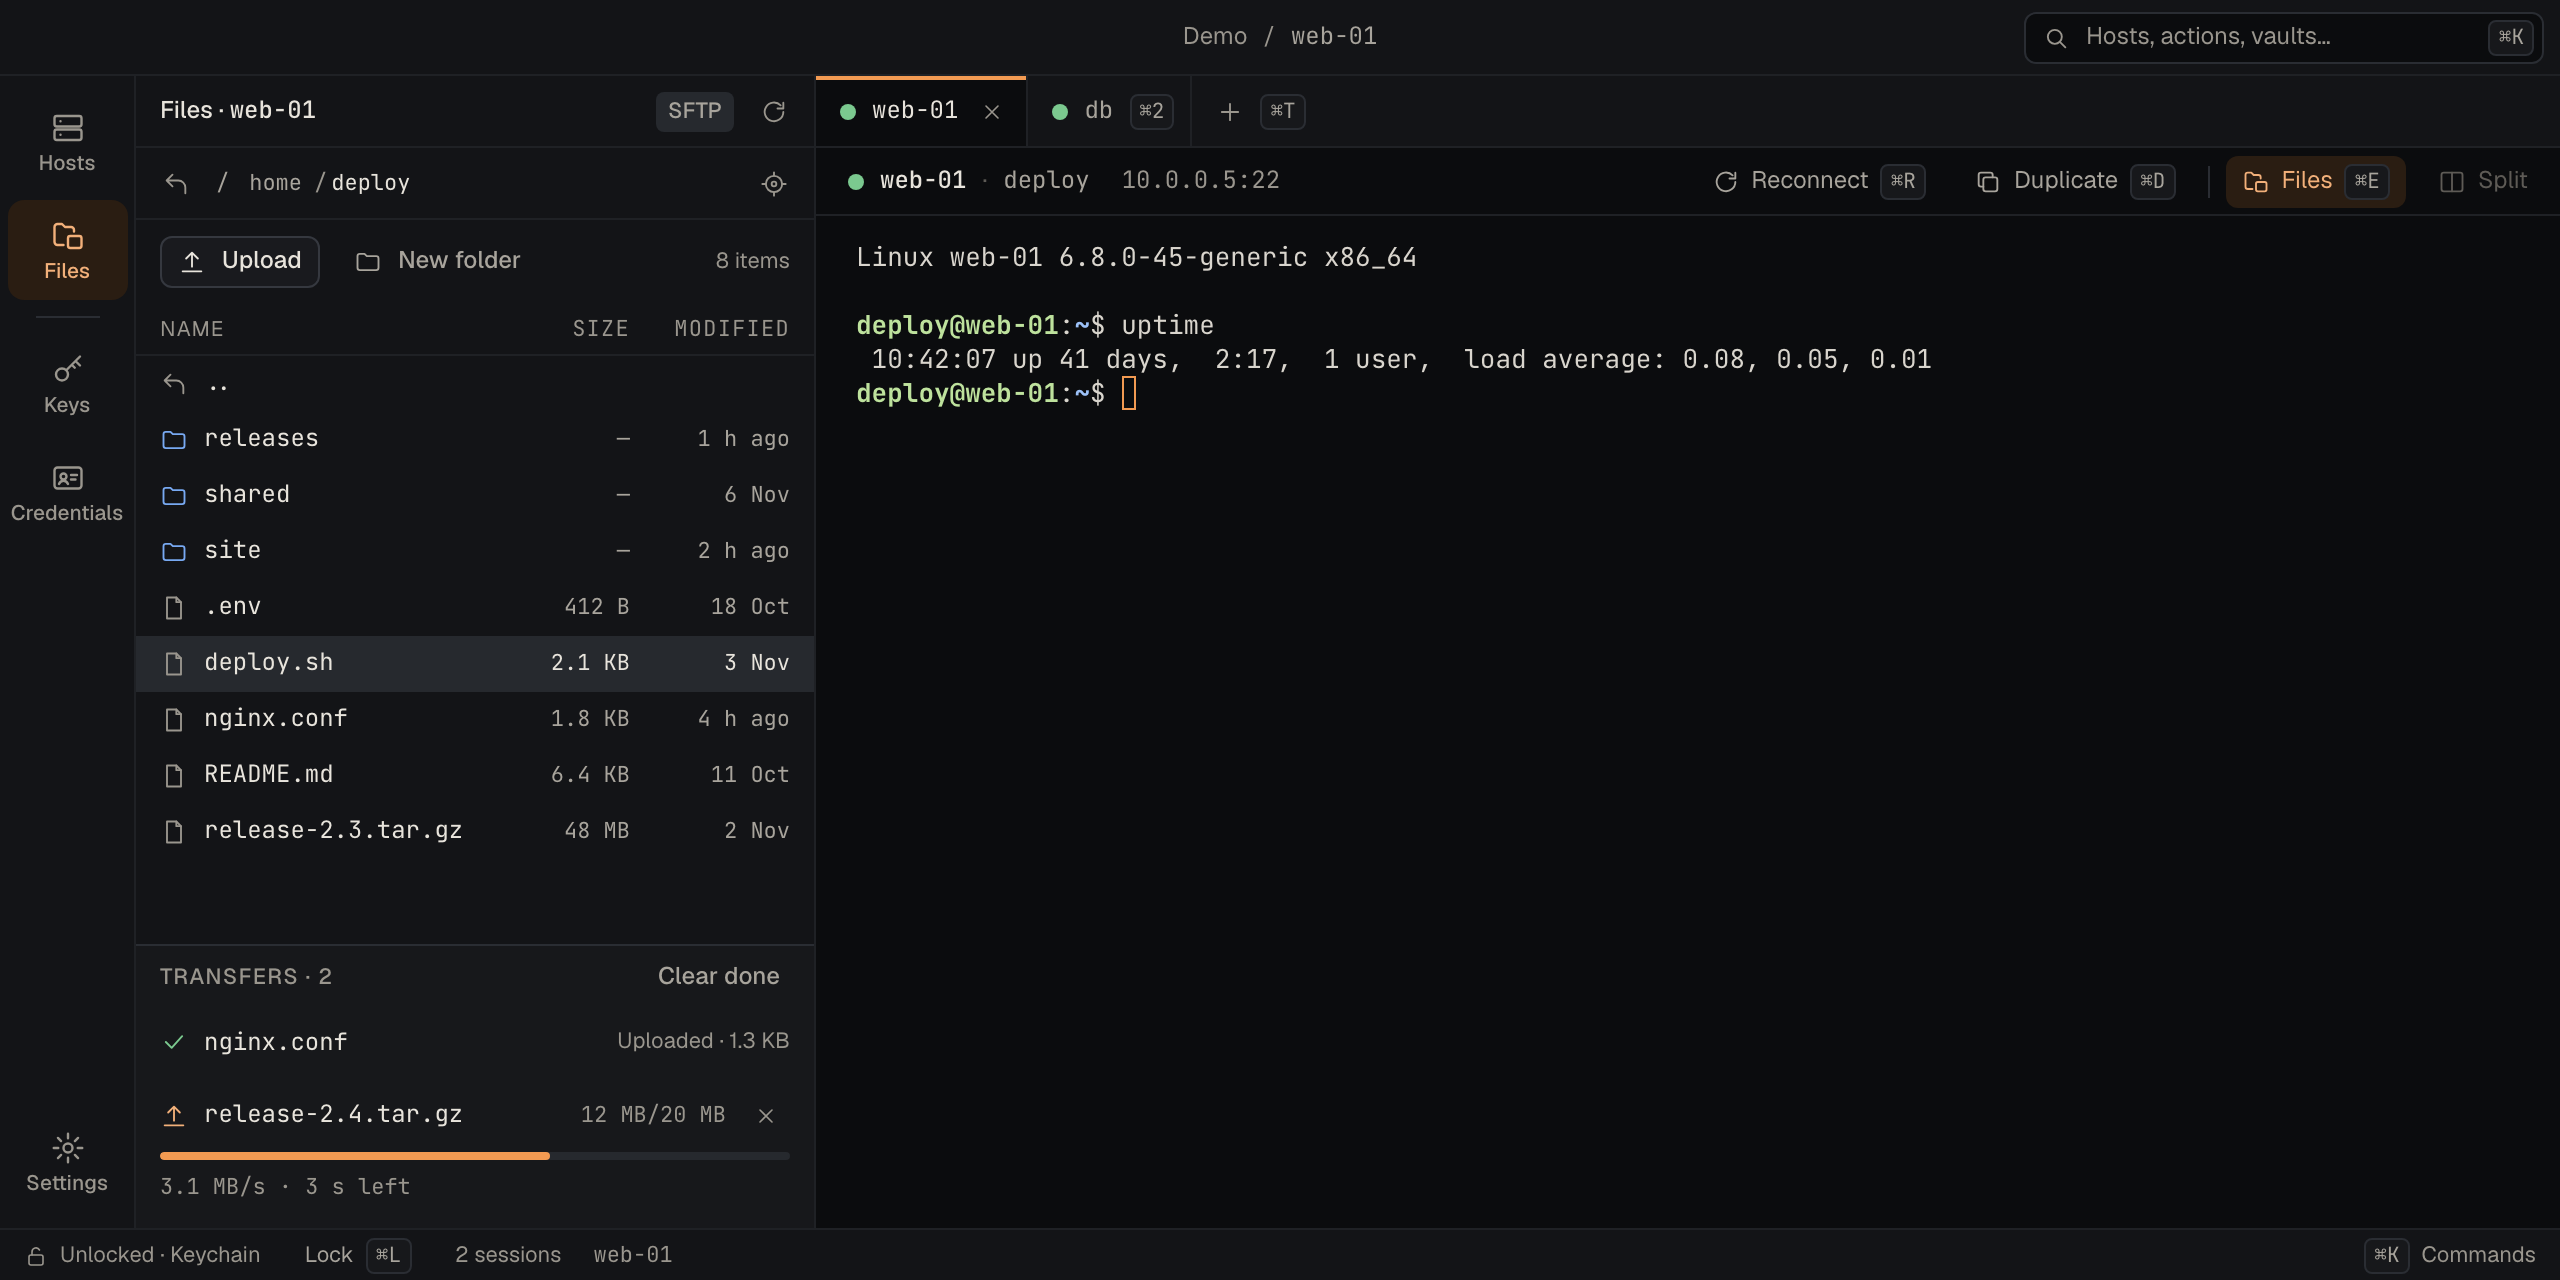
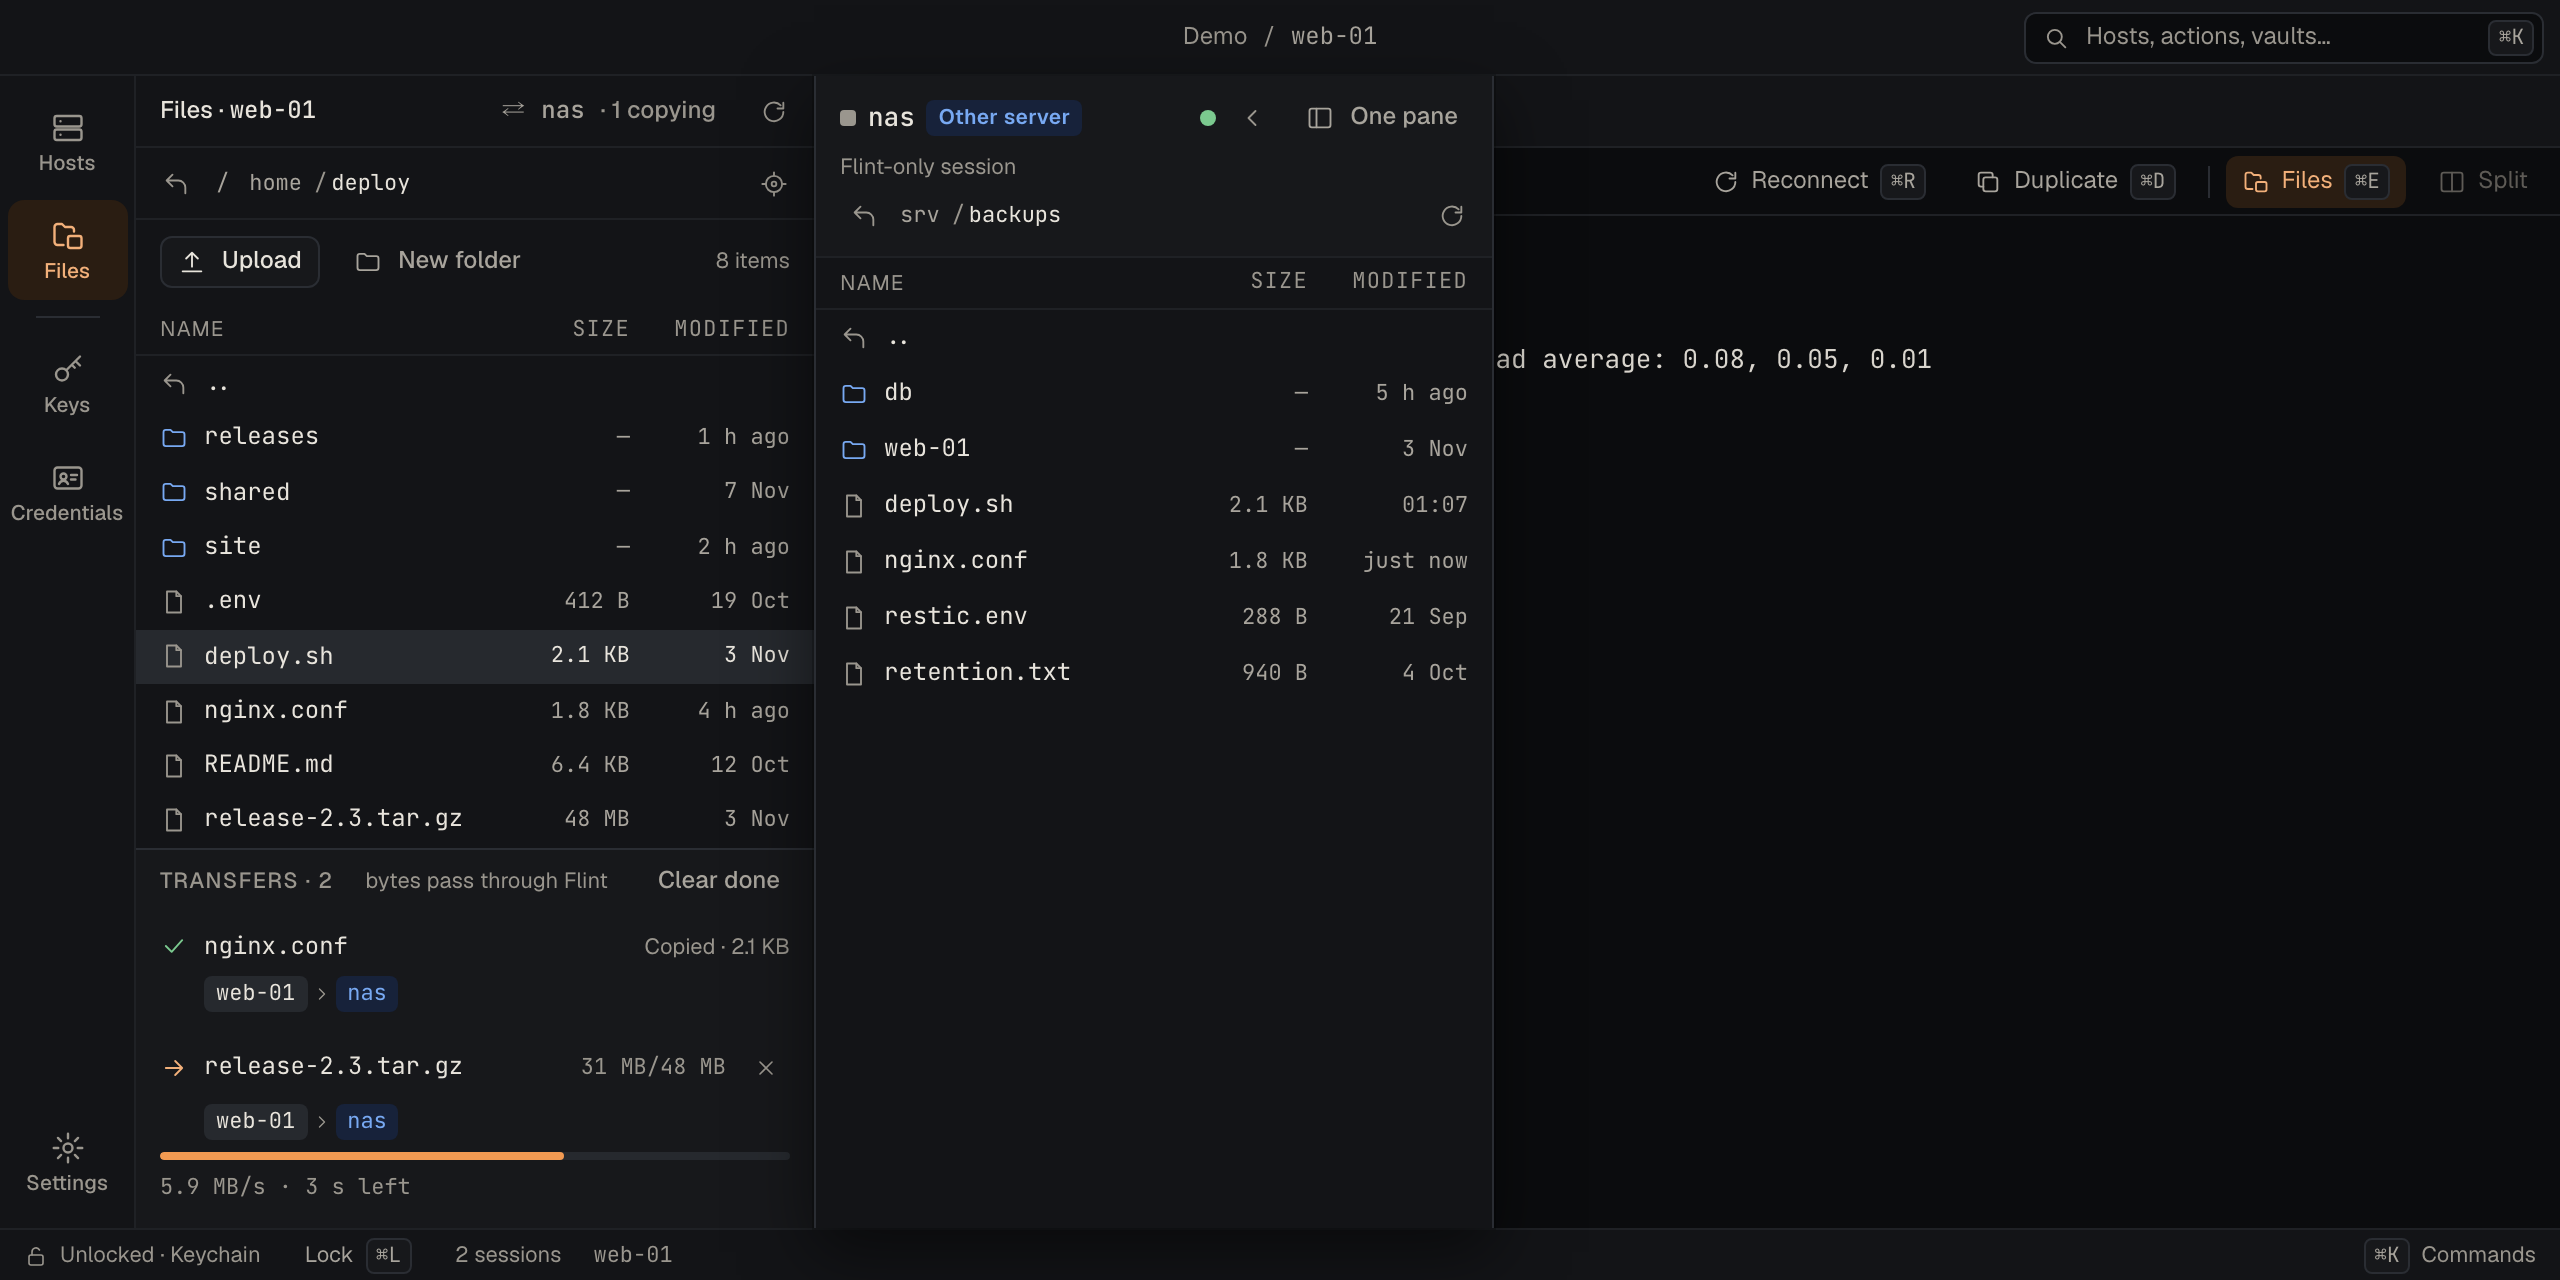
docs: copy between two servers in the Files view, landing shot with two panes
The Files view guide gains Copying between two servers and opening on the
terminal's folder; shortcuts list Cmd+Right / Cmd+Left; the landing's Files
section names it and its screenshot shows the second pane (shots:gui).
Design README: 14d as built. The pane's role hint gets its own line and a
relay row's route its own line under the name.

Claude-Session: https://claude.ai/code/session_01TFc4EtDChcTxEmpK7KwzDa

diff --git a/ui/src/files/FilesView.tsx b/ui/src/files/FilesView.tsx
@@ -328,7 +328,7 @@ function TransferRow({ t, others }: { t: Transfer; others: number }) {
   const size = t.total > 0 ? `${humanSize(t.bytes)}/${humanSize(t.total)}` : humanSize(t.bytes);
   const [all, setAll] = useState(false);
   let icon = <Icon name={t.direction === 'upload' ? 'upload' : t.direction === 'download' ? 'download' : 'arrow-r'} size="sm" className="accent-t" />;
-  let status: ReactNode = <span className="mono faint" style={{ fontSize: 'var(--fs-xs)' }}>{size}{t.direction === 'relay' && t.rate > 0 ? ` · ${humanSize(Math.round(t.rate))}/s` : ''}</span>;
+  let status: ReactNode = <span className="mono faint" style={{ fontSize: 'var(--fs-xs)', whiteSpace: 'nowrap' }}>{size}</span>;
   let action: ReactNode = <button className="icon-btn" aria-label={`Cancel ${verb}`} title={`Cancel ${verb}`} data-transfer-cancel onClick={() => files.cancel(t.id)}><Icon name="x" size="xs" /></button>;
   if (t.state === 'queued') {
     icon = <Icon name="clock" size="sm" className="faint" />;
@@ -378,13 +378,11 @@ function TransferRow({ t, others }: { t: Transfer; others: number }) {
   return (
     <div className="xfer" data-transfer={t.name} data-state={t.state} data-direction={t.direction}>
       <div className="row" style={{ fontSize: 'var(--fs-sm)', gap: 'var(--sp-2)' }}>
-        {icon}
-        <span className={'mono trunc' + (t.direction === 'relay' ? '' : ' grow')} title={where}>{t.name}</span>
-        {t.direction === 'relay' && (
-          <span className="chain grow" style={{ marginLeft: 'var(--sp-1)', minWidth: 0 }} data-transfer-route><span className="node trunc">{t.alias}</span><Icon name="chain" size="xs" /><span className="node caller trunc">{t.toAlias}</span></span>
-        )}
-        {status}{action}
+        {icon}<span className="mono grow trunc" title={where}>{t.name}</span>{status}{action}
       </div>
+      {t.direction === 'relay' && (
+        <span className="chain" style={{ paddingLeft: 22 }} data-transfer-route title={where}><span className="node">{t.alias}</span><Icon name="chain" size="xs" /><span className="node caller">{t.toAlias}</span></span>
+      )}
       {active && <div className="progress" role="progressbar" aria-valuenow={pct} aria-valuemin={0} aria-valuemax={100}><i style={{ width: t.total > 0 ? pct + '%' : '30%' }} className={t.total > 0 ? '' : 'indeterminate'} /></div>}
       {active && <span className="hint mono">{t.recursive && t.file ? `${t.filesDone} done · ` : ''}{rateLine(t)}</span>}
     </div>

diff --git a/ui/src/files/OtherPane.tsx b/ui/src/files/OtherPane.tsx
@@ -190,7 +190,8 @@ export function OtherPane({ tabId, session, alias, pair, onConfirm, onAsk, onEdi
   };
 
   const hide = () => pairs.setHidden(tabId, true);
-  const roleHint = pair.own ? 'no tab · Flint-only session' : 'its tab’s session';
+  const roleHint = pair.own ? 'Flint-only session' : 'its tab’s session';
+  const roleTitle = pair.own ? `${pair.alias} has no open tab: Flint logged in without a terminal, for this pane only` : `The pane uses ${pair.alias}'s open tab`;
   const st = pair.status === 'ready' ? 'st-on' : pair.status === 'ended' ? 'st-fail' : 'st-wait';
 
   return (
@@ -207,11 +208,12 @@ export function OtherPane({ tabId, session, alias, pair, onConfirm, onAsk, onEdi
           <span className={'sp-dot ' + color.className} style={color.style} />
           <span className="mono strong trunc" data-files-pane-host>{pair.alias}</span>
           <span className="role-tag other">Other server</span>
-          <span className="hint trunc grow" style={{ minWidth: 0 }}>{roleHint}</span>
+          <span className="grow" />
           <span className={'st ' + st} role="img" aria-label={pair.status} />
           <button className="icon-btn" aria-label="Hide this pane (Esc). Copies carry on" title="Hide this pane (Esc). Copies carry on" data-files-pane-hide onClick={hide}><Icon name="chev-r" size="sm" className="flip-x" /></button>
           <button className="btn btn-ghost btn-sm" data-files-one-pane title="Back to one pane: ends this pane's session" onClick={() => pairs.close(tabId)}><Icon name="sidebar" size="sm" />One pane</button>
         </div>
+        <span className="hint trunc" title={roleTitle} data-files-pane-role>{roleHint}</span>
         <div className="row" style={{ gap: 2 }}>
           <button className="icon-btn" aria-label="Up one folder" disabled={!ready || !path || path === '/'} onClick={() => files.up(key)}><Icon name="up" size="sm" /></button>
           <nav className="crumbs grow" aria-label="Path" data-files-pane-crumbs>

diff --git a/scripts/gui-e2e.js b/scripts/gui-e2e.js
@@ -519,7 +519,7 @@
       await check(pane().textContent.includes('Verify side'), "a new host's key is asked inside the pane (14d5c)");
       await click('[data-files-pane-hostkey] button[type="submit"]');
       await waitFor(() => pane()?.dataset.pairStatus === 'ready' && pane().dataset.filesPath, 'the Flint-only session', 20000);
-      await check(pane().textContent.includes('no tab · Flint-only session') && qa('.tab').length === 2, 'a host with no tab gets a session of its own with no terminal, and no tab');
+      await check(pane().textContent.includes('Flint-only session') && qa('.tab').length === 2, 'a host with no tab gets a session of its own with no terminal, and no tab');
       await waitFor(() => pane().querySelector(`[data-file="${name}"]`), 'the scratch folder over the Flint-only session');
       await into(name, base);
       // ⌘← copies from the second pane back to the first: src already has a.txt, so Skip.

diff --git a/site/src/content/docs/guides/files-view.md b/site/src/content/docs/guides/files-view.md
@@ -1,6 +1,6 @@
 ---
 title: The Files view
-description: Browse a host's files beside its terminal, upload and download with a queue, drag files in from your computer, and jump to the terminal's folder.
+description: Browse a host's files beside its terminal, upload and download with a queue, drag files in from your computer, copy files between two servers, and jump to the terminal's folder.
 ---
 
 The **Files** view browses the host of the active tab, over that tab's own connection.
@@ -25,8 +25,11 @@ When the active tab is not connected, the view says so and offers **Reconnect** 
   it does not, the button is greyed out and says so. When the list shows the terminal's
   folder, the bar reads **Synced with terminal**.
 
-The view starts in the login folder. Flint opens it again where you left it after a
-reconnect; a folder that is gone takes you back to the login folder.
+When the shell has reported its folder (see [below](#go-to-the-terminals-folder)), the
+view **opens on the terminal's folder**: each time you open it, not as you `cd` while it
+is open, so the list never moves under you. Otherwise it opens where you left it, or in
+the login folder the first time. A folder that is gone takes you back to the login
+folder.
 
 ## Files and folders
 
@@ -78,6 +81,41 @@ and browsing, wait until you open it again. Transfers are not written to **Setti
 with the vault, not what you do in the window.
 
 The same copies from a terminal, or from a script, are [`flint cp`](/guides/files/).
+
+## Copying between two servers
+
+**Copy to another server…** in the view's header copies files from this host straight to
+another one. Pick the other server in the list (type to filter; the current host is
+greyed out as *this tab*), and a second file pane opens beside the view, on that server.
+
+- The bytes go **host → Flint → host**: Flint reads from one server and writes to the
+  other as it reads, with nothing saved on this computer, and no key or password is ever
+  put on either server.
+- The second pane uses the server's open tab when it has a connected one (*its tab's
+  session*). Otherwise Flint logs in to it **without a terminal**, just for the pane
+  (*Flint-only session*): a password or a new host key is asked inside the pane,
+  as a connect would, and that session ends when the pane closes. A host key that has
+  changed is never accepted there; open a tab on the host to review it.
+- **Drag** a file or folder from one pane onto the other. The pane, and the folder under
+  the pointer, light up, and a label says where the copy goes (*Copy to db-primary ·
+  scripts/*). Dropped on the pane, it goes into the folder the pane shows; on a folder
+  row, into that folder.
+- Or right-click it and choose **Copy to <server>**, or press <kbd>⌘→</kbd>
+  (<kbd>Ctrl+Shift+→</kbd> on Linux) in the first pane; <kbd>⌘←</kbd>
+  (<kbd>Ctrl+Shift+←</kbd>) copies from the second pane back to the first.
+- The copies line up in the first pane's queue, each row reading *host → host*, with
+  progress, cancel and **Retry**. A name that is already there asks **Replace** or
+  **Skip**; with several clashes, **Do this for the other N conflicts** answers them all.
+
+The second pane **floats over the terminal**: the terminal keeps its size, so nothing in
+it redraws. <kbd>esc</kbd>, a click in the terminal or the pane's **‹** button hide it,
+but the copies, the pane's folder and its session carry on: the header's
+**⇄ <server> · N copying** shows it again as it was. **One pane** closes it and ends its
+own session; closing the tab or locking the vault does too.
+
+Like the rest of the window's transfers, these copies are not written to **Settings →
+Activity**. From a terminal or a script, the same copy is
+[`flint cp a:/path b:/path`](/guides/files/).
 
 ## Go to the terminal's folder
 

diff --git a/docs/design/README.md b/docs/design/README.md
@@ -226,6 +226,8 @@ The bytes always flow server A → Flint → server B; no key or password is eve
 
 - **As built (16g, milestone 18, D-058):** the host's colour square is its own colour (none: grey), and its name on the network shows under the alias only when it differs. 16g3's tags come from the caller's live grants when the window opens; a grant that ends while it waits loses its tag. A 16g1 with no grant yet shows no tags.
 
+- **As built (14d, milestone 19, D-059):** the second pane **floats** over the terminal beside the Files view, which keeps its width, instead of widening the docked view to 700 px: the terminal is never resized. Its header carries the hide button (‹) and **One pane**; the role hint (*Flint-only session* / *its tab's session*) sits on its own line under it. While two-pane mode is on, **Copy to another server…** becomes the chip `⇄ <host> · N copying`, which shows a hidden pane again; Esc or a click in the terminal hides it, and the mode, its session and its copies stay. The first pane keeps its 14a layout (no role tag); the queue stays there, a relay row's route `A › B` on a line under the name. ⌘← copies from the second pane back. Left out: 14d5b's **Save to vault** (save a password in the host editor) and 14d5c's **Once** (a host key is trusted or not); a changed host key in the pane says to open a tab on the host.
+
 **Focus in split panes:** the focused pane has an ember border and a tinted header, and the other panes' output is dimmed to 60 %. Either cue alone is weak with busy output or in light mode; together they hold up. Pane numbers 1–4 appear in pane headers, the toolbar badge ("pane 2 of 4") and the Files header.
 
 **Shortcut change:** Split right takes ⌘D, so **Duplicate session moves to ⌥⌘D**.

diff --git a/site/src/content/docs/reference/keyboard-shortcuts.md b/site/src/content/docs/reference/keyboard-shortcuts.md
@@ -37,6 +37,7 @@ speaks the Kitty keyboard protocol.
 |---|---|
 | Host tree | ↑ ↓ move · ← → collapse or expand · ↵ connect · ⌘↵ new tab · ⌘I edit · ⌫ delete |
 | Files list | ↑ ↓ move · ↵ open a folder, rename a file · ⌘↑ up one folder · ⌘↓ download · ⌘⌫ delete · context-menu key for the menu |
+| Files with two servers | ⌘→ copy to the second pane's server · ⌘← (in the second pane) copy back to the first · esc hide the second pane |
 | Command palette | ↑ ↓ move · ↵ open · ⌘↵ new tab · ⌘I edit host · Tab next group · esc close |
 | Prompts over a session | ↵ the primary action · esc cancel. A changed host key has no ↵ action |
 | Editors | ⌘↵ save · esc cancel |

diff --git a/site/src/content/docs/guides/files.md b/site/src/content/docs/guides/files.md
@@ -6,7 +6,7 @@ description: Copy files and folders between this machine and a host, or from one
 `flint cp` copies files and folders between this machine and a host, or from one host
 to another, over SFTP. In
 the desktop app, [the Files view](/guides/files-view/) does the same beside a session's
-terminal. It logs
+terminal, and copies between two servers in two side-by-side panes. It logs
 in the way `flint exec` does, with the key or password in the vault, through the host's
 jump hosts, after checking the server's key. You need no `scp`, no `~/.ssh/config` and no
 key on disk.
